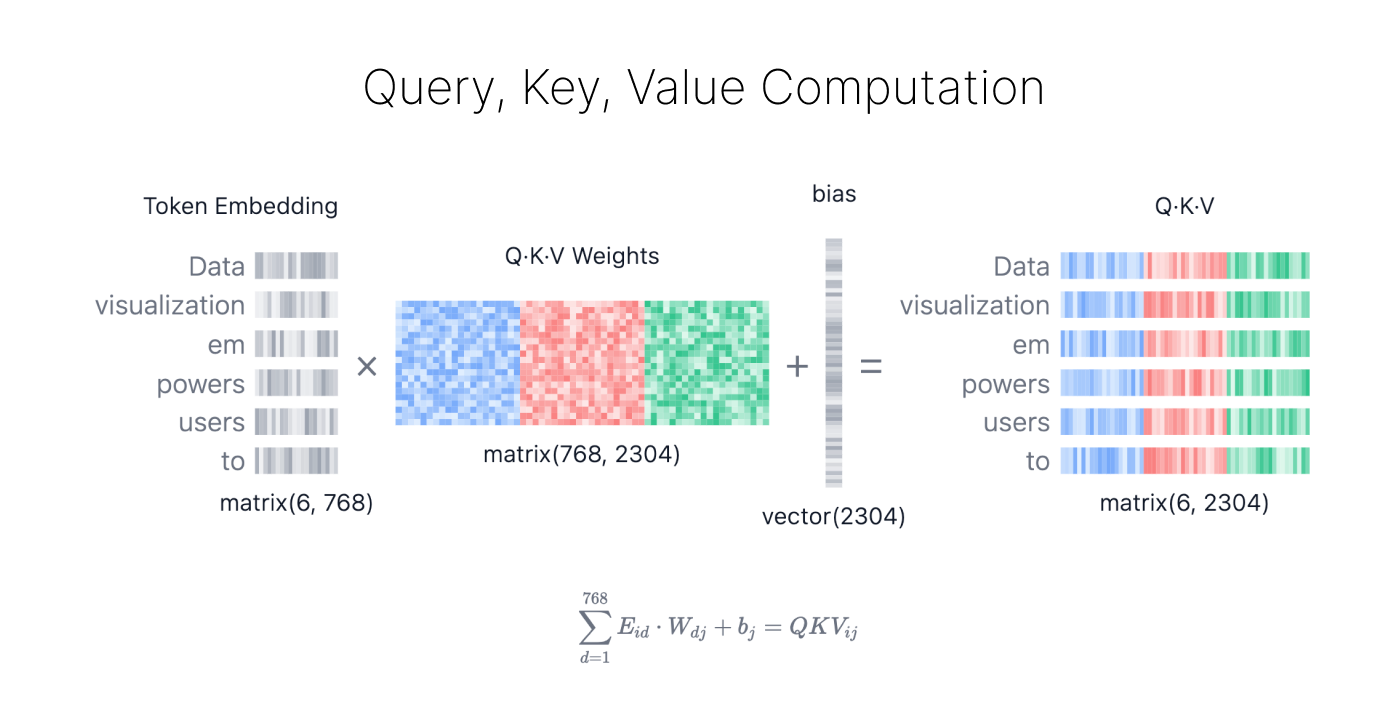
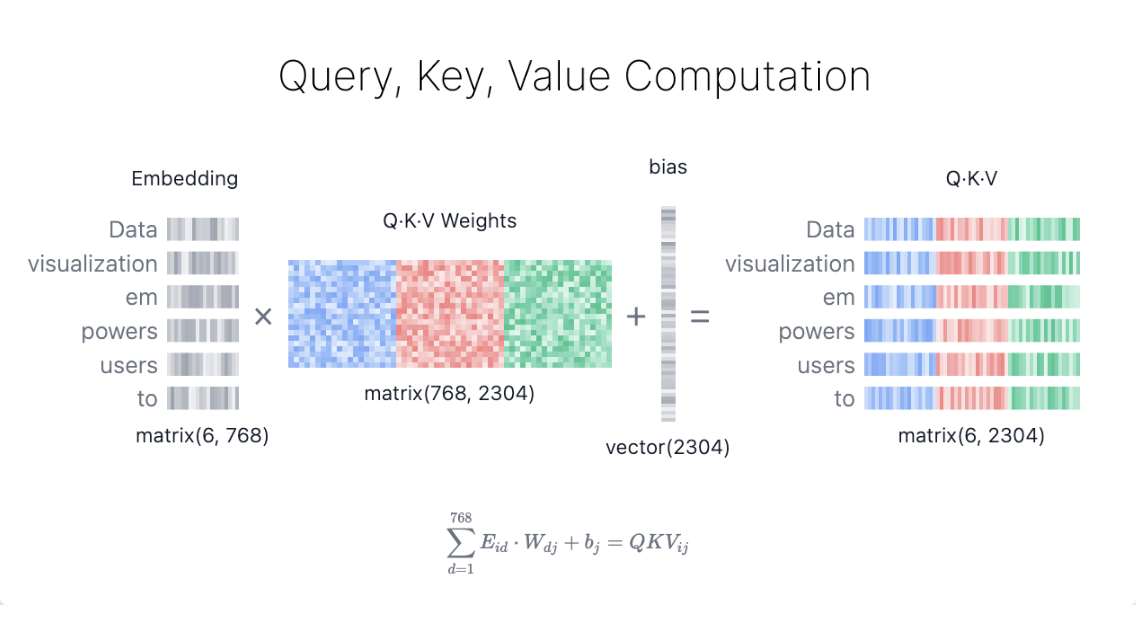
Edit article

diff --git a/src/components/article/Article.svelte b/src/components/article/Article.svelte
@@ -43,7 +43,7 @@
 				href="https://www.deeplearning.ai/the-batch/reinforcement-learning-plus-transformers-equals-efficiency/"
 				title="Deep Learning AI"
 				target="_blank">game playing</a
-			>, demonstrating their versatility across numerous domains.
+			>, demonstrating its versatility across numerous domains.
 		</p>
 		<p>
 			Fundamentally, text-generative Transformer models operate on the principle of <strong
@@ -59,7 +59,7 @@
 			<a href="https://huggingface.co/openai-community/gpt2" title="Hugging Face" target="_blank"
 				>GPT-2</a
 			>
-			(small) model which has 124 million parameter. While it is not the latest or most powerful Transformer
+			(small) model which has 124 million parameters. While it is not the latest or most powerful Transformer
 			model, it shares many of the same architectural components and principles found in the current
 			state-of-the-art models making it an ideal starting point for understanding the basics.
 		</p>
@@ -116,7 +116,7 @@
 				<img src="./static/article_assets/embedding.png" width="60%" height="60%" align="middle" />
 			</div>
 			<div class="figure-caption">
-				Figure <span class="attention">X</span>. Expanding the Embedding layer view, showing how the
+				Figure <span class="attention">1</span>. Expanding the Embedding layer view, showing how the
 				input prompt is converted to a vector representation. The process involves
 				<span class="fig-numbering">(1)</span> Tokenization, (2) Token Embedding, (3) Positional Encoding,
 				and (4) Final Embedding.
@@ -140,7 +140,7 @@
 				<p>
 					GPT-2 Small represents each token in the vocabulary as a 768-dimensional vector; the
 					dimension of the vector depends on the model. These embedding vectors are stored in a
-					matrix of shape <code>(50,257, 768)</code>, containing approximately 39 million
+					matrix of shape <code>(50, 257, 768)</code>, containing approximately 39 million
 					parameters! This extensive matrix allows the model to assign semantic meaning to each
 					token.
 				</p>
@@ -148,7 +148,7 @@
 			<div class="article-subsection">
 				<h3>Step 3. Positional Encoding</h3>
 				<p>
-					The embedding layer also encodes information about each token's position in the input
+					The Embedding layer also encodes information about each token's position in the input
 					prompt. Different models use various methods for positional encoding. GPT-2 trains its own
 					positional encoding matrix from scratch, integrating it directly into the training
 					process.
@@ -211,7 +211,7 @@
 
 			<p>
 				The core of the Transformer's processing lies in the Transformer block, which comprises
-				multi-head self-attention and a Multi-Layer Perceptron layers. Most models consist of
+				multi-head self-attention and a Multi-Layer Perceptron layer. Most models consist of
 				multiple such blocks that are stacked sequentially one after the other. The token
 				representations evolve through layers, from the first block to the 12th one, allowing the
 				model to build up an intricate understanding of each token. This layered approach leads to
@@ -232,7 +232,7 @@
 						<img src="static/article_assets/QKV.png" width="80%" align="middle" />
 					</div>
 					<div class="figure-caption">
-						Figure <span class="attention">X</span>. Computing Query, Key, and Value matrices from
+						Figure <span class="attention">2</span>. Computing Query, Key, and Value matrices from
 						the original embedding.
 					</div>
 
@@ -255,11 +255,11 @@
 						</li>
 						<li>
 							<strong class="k-color font-medium">Key (K)</strong> is the title of each web page in the
-							search resul window. It represents the possible tokens the query can attend to.
+							search result window. It represents the possible tokens the query can attend to.
 						</li>
 						<li>
 							<strong class="v-color font-medium">Value (V)</strong> is the actual content of web pages
-							shown. Once we matched the appropriate search term (Query) with the relevant results (Keys),
+							shown. Once we matched the appropriate search term (Query) with the relevant results (Key),
 							we want to get the content (Value) of the most relevant pages.
 						</li>
 					</ul>
@@ -279,7 +279,7 @@
 						<img src="static/article_assets/attention.png" width="80%" align="middle" />
 					</div>
 					<div class="figure-caption">
-						Figure <span class="attention">X</span>. Using Query, Key, and Value matrices to
+						Figure <span class="attention">3</span>. Using Query, Key, and Value matrices to
 						calculate masked self-attention.
 					</div>
 
@@ -323,7 +323,7 @@
 						<img src="static/article_assets/mlp.png" width="70%" align="middle" />
 					</div>
 					<div class="figure-caption">
-						Figure <span class="attention">X</span>. Using MLP layer to project the self-attention
+						Figure <span class="attention">4</span>. Using MLP layer to project the self-attention
 						representations into higher dimensions to enhance the model's representational capacity.
 					</div>
 
@@ -335,8 +335,8 @@
 						transformation increases the dimensionality of the input four-fold from <code>768</code>
 						to <code>3072</code>. The second linear transformation reduces the dimensionality back
 						to the original size of <code>768</code>, ensuring that the subsequent layers receive
-						inputs of consistent dimensions. Unlile the self-attention mechanis, the MLP processes
-						tokens independently and simply maps them from one representation to another.
+						inputs of consistent dimensions. Unlike the self-attention mechanism, the MLP processes
+						tokens independently and simply map them from one representation to another.
 					</p>
 				</div>
 
@@ -357,7 +357,7 @@
 						<img src="static/article_assets/softmax.png" width="60%" align="middle" />
 					</div>
 					<div class="figure-caption">
-						Figure <span class="attention">X</span>. Each token in the vocabulary is assigned a
+						Figure <span class="attention">5</span>. Each token in the vocabulary is assigned a
 						probability based on the model's output logits. These probabilities determine the
 						likelihood of each token being the next word in the sequence.
 					</div>
@@ -415,7 +415,7 @@
 							It works by normalizing the inputs across the features, ensuring that the mean and
 							variance of the activations are consistent. This normalization helps mitigate issues
 							related to internal covariate shift, allowing the model to learn more effectively and
-							reducing the sensitivity to the initial weights. Layer Norm is applied twice in each
+							reducing the sensitivity to the initial weights. Layer Normalization is applied twice in each
 							Transformer block, once before the self-attention mechanism and once before the MLP
 							layer.
 						</p>
@@ -425,7 +425,7 @@
 
 						<p>
 							Dropout is a regularization technique used to prevent overfitting in neural networks
-							by randomly setting a fraction of model wights to zero during training. This
+							by randomly setting a fraction of model weights to zero during training. This
 							encourages the model to learn more robust features and reduces dependency on specific
 							neurons, helping the network generalize better to new, unseen data. During model
 							inference, dropout is deactivated. This essentially means that we are using an
@@ -452,7 +452,7 @@
 				<div class="article-section">
 					<h1>Interactive Features</h1>
 					<p>
-						Transformer Explainer is built to be interactive and allow you to explore the inner
+						Transformer Explainer is built to be interactive and allows you to explore the inner
 						workings of the Transformer. Here are some of the interactive features you can play
 						with:
 					</p>
@@ -527,7 +527,7 @@
 <style lang="scss">
 	.attention {
 		// color: white;
-		background-color: theme('colors.red.200');
+		// background-color: theme('colors.red.200');
 	}
 
 	// .fig-numbering {

diff --git a/src/components/Popovers/QKVWeightPopover.svelte b/src/components/Popovers/QKVWeightPopover.svelte
@@ -271,7 +271,7 @@
 					/>
 				</svg></button
 			>
-		{/if}
+		{/if}w
 	</div>
 	<div class="content">
 		<div class="weight-popover-content flex items-center justify-start">
@@ -283,7 +283,7 @@
 				</div>
 			</div>
 			<div class="matrix flex flex-col items-center">
-				<div class="title self-end">Token Embedding</div>
+				<div class="title self-end">Embedding</div>
 				<!-- (tokenLen, 768) -->
 				<Matrix
 					className="token-embedding"
